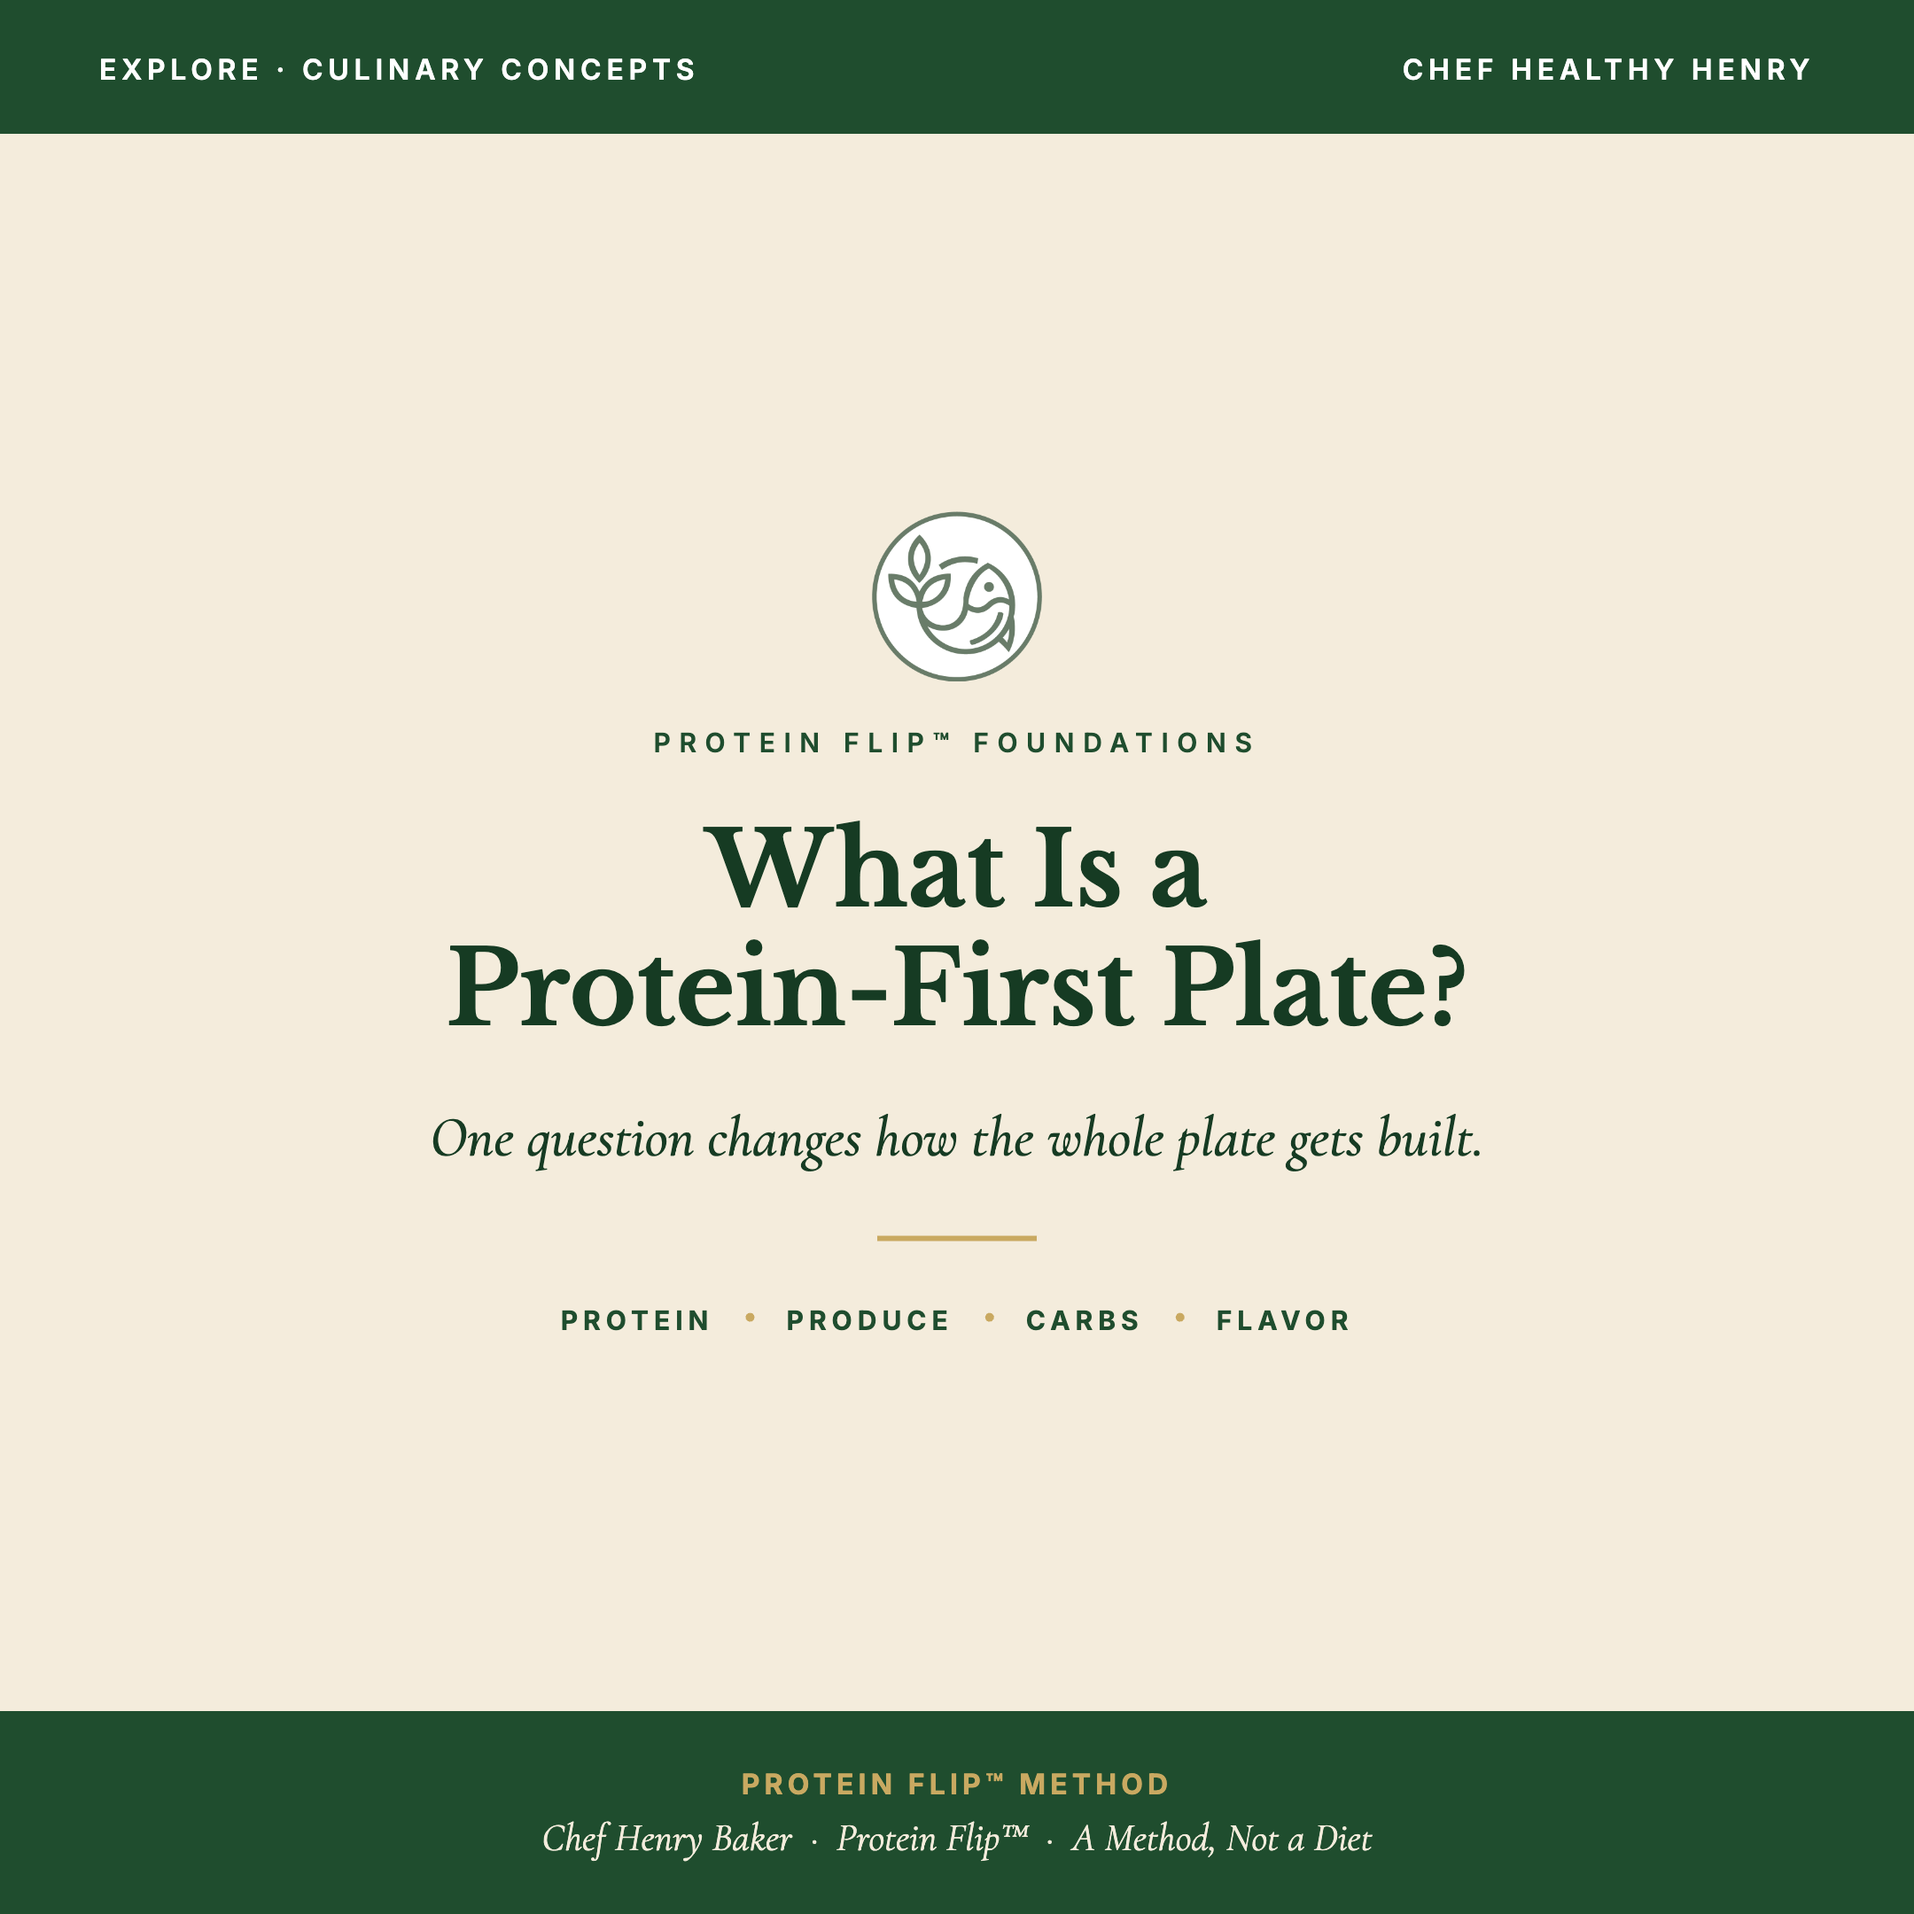
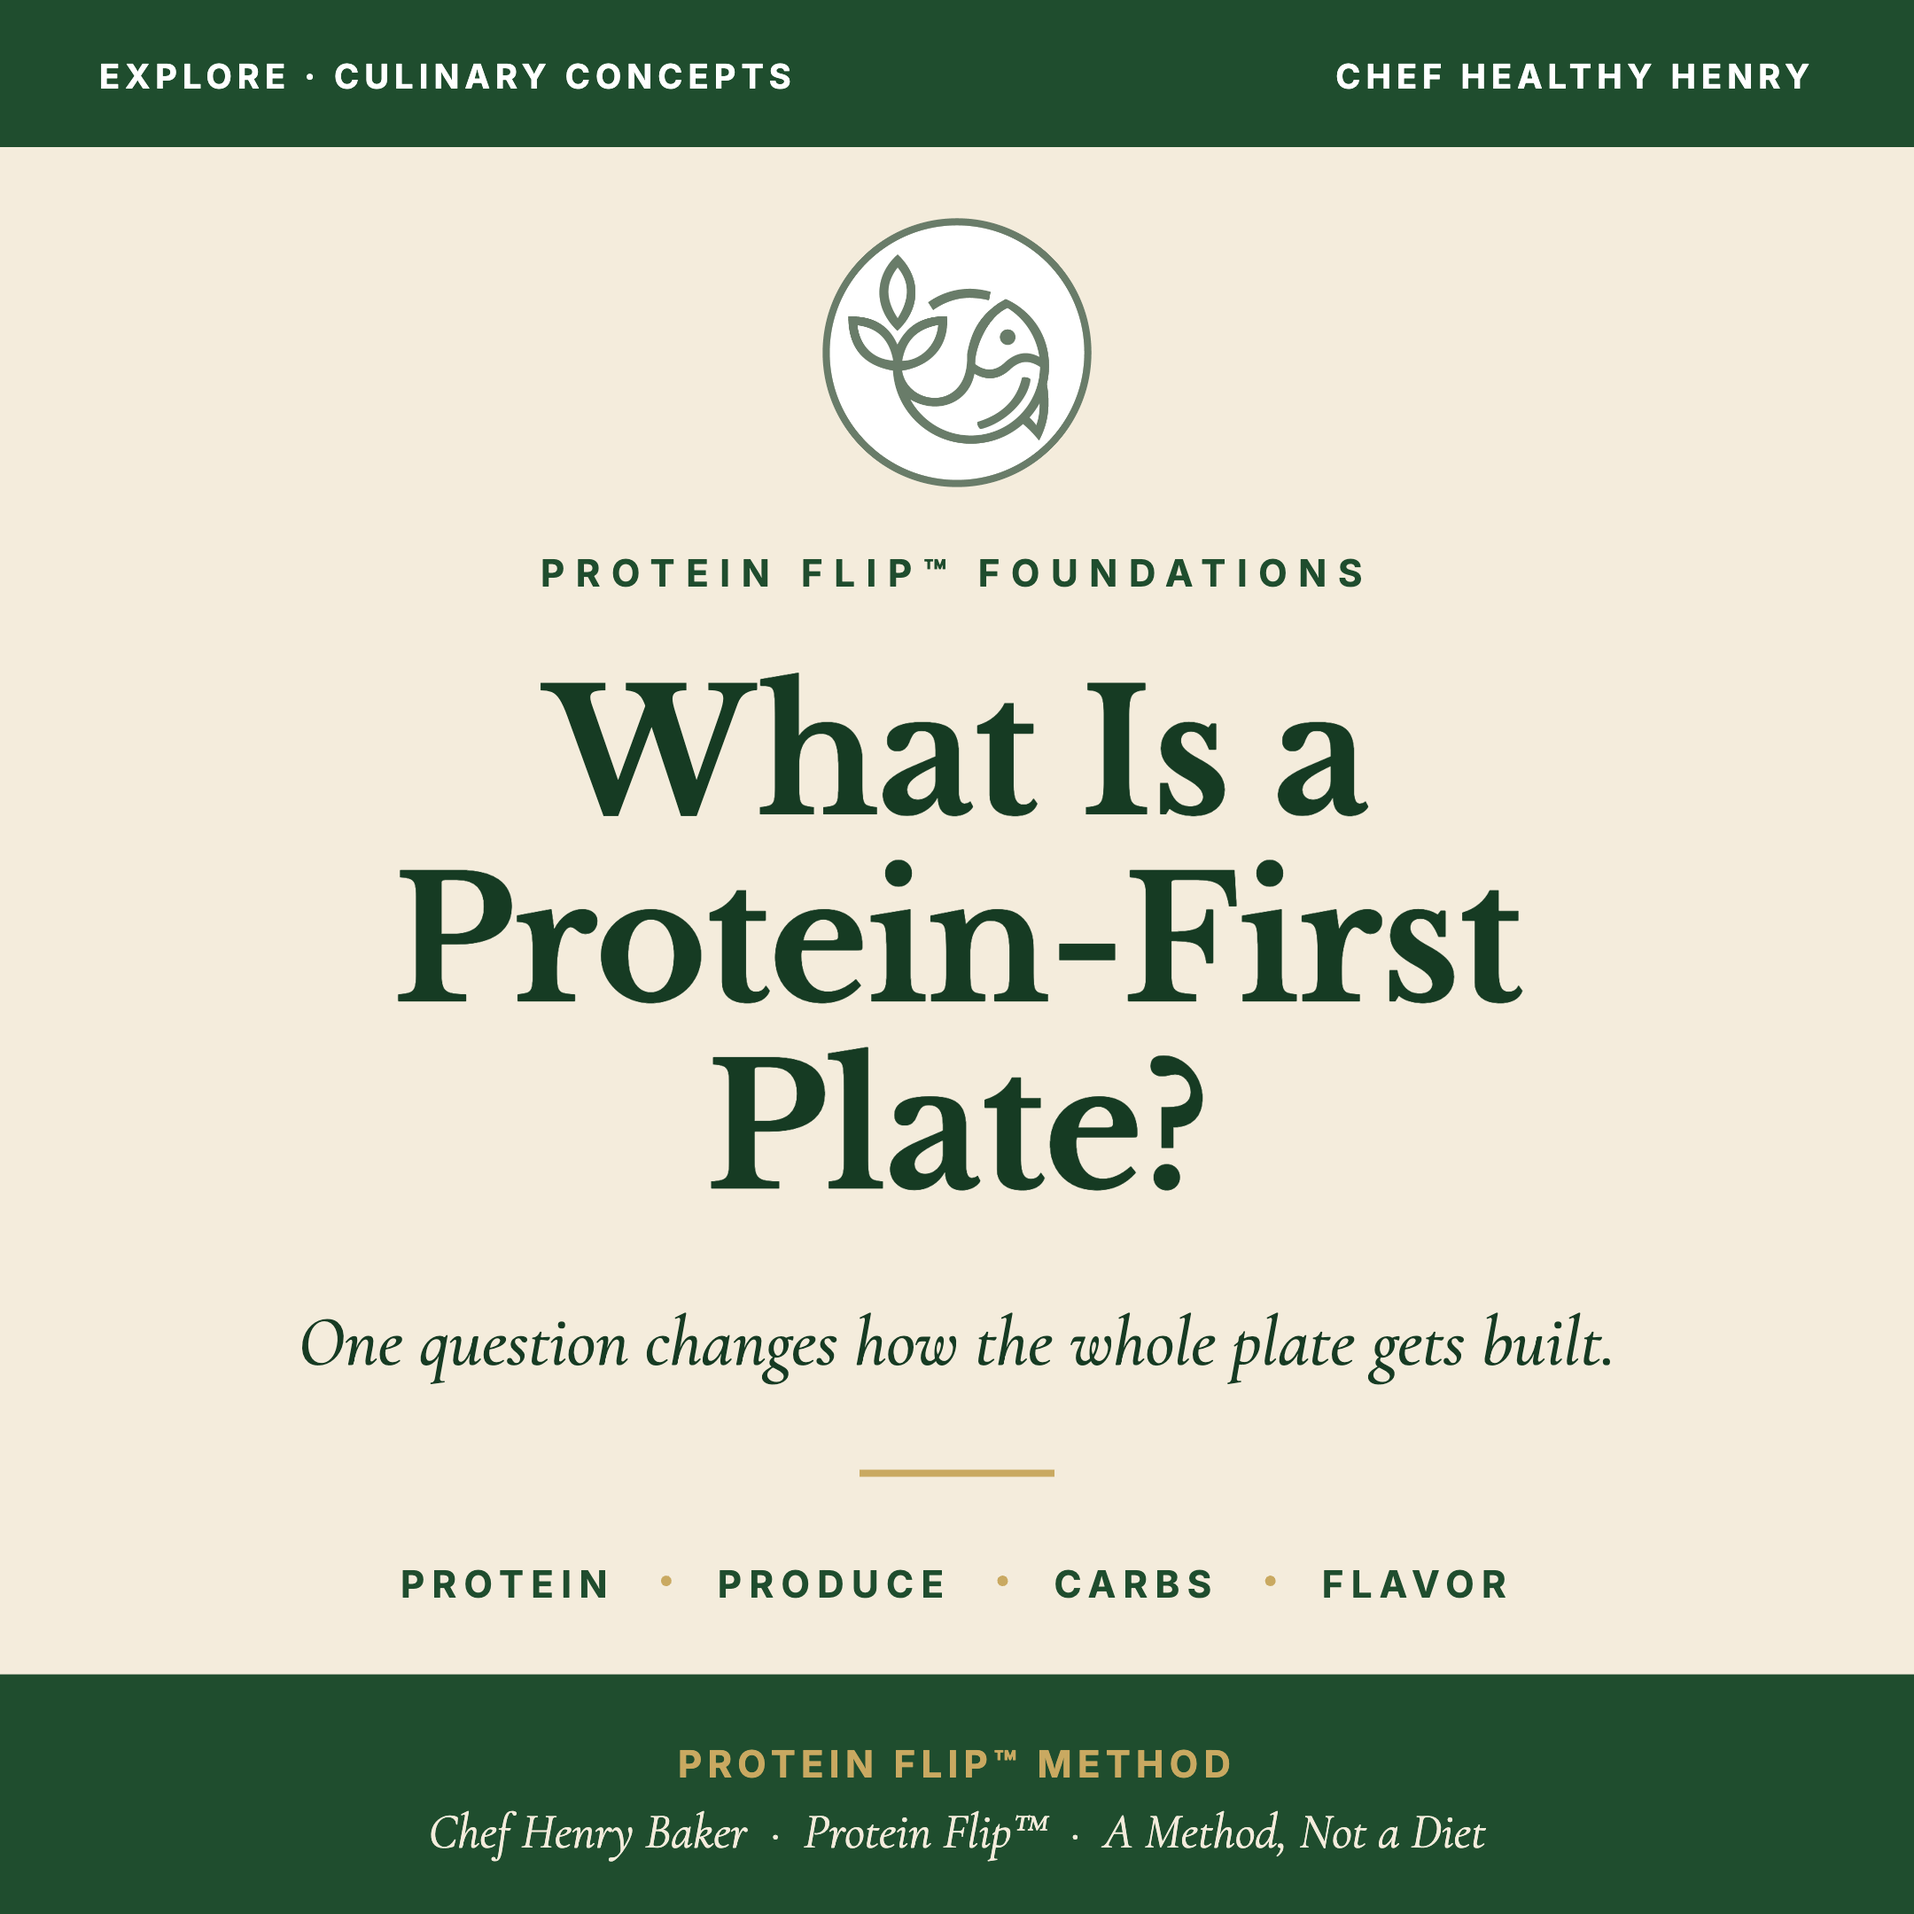
Shrink Explore article hero and update cover image
Hero was rendering as a full-width edge-to-edge square, pushing body
copy far down the page. Capped it to a centered 440px box (roughly
matching the blog post hero's on-page footprint) instead of switching
to a landscape crop like the blog post template uses: this hero is a
dense text title-card graphic, and a 3:2/16:9 crop would cut off the
bottom third of it (the tag line and footer bar). Card thumbnail on
the Explore listing is untouched.

Also swaps in the refreshed cover image (updated logo shadow/spacing).

diff --git a/src/app/explore/article/[slug]/page.tsx b/src/app/explore/article/[slug]/page.tsx
@@ -86,13 +86,13 @@ export default async function ExploreArticlePage({
       </header>
 
       {card.hero && (
-        <div className="relative mt-8 aspect-square overflow-hidden rounded-2xl shadow-md">
+        <div className="relative mx-auto mt-8 aspect-square w-full max-w-[440px] overflow-hidden rounded-2xl shadow-md">
           <Image
             src={card.hero}
             alt={card.title}
             fill
             priority
-            sizes="(max-width: 768px) 100vw, 768px"
+            sizes="(max-width: 480px) 100vw, 440px"
             className="object-cover"
           />
         </div>
